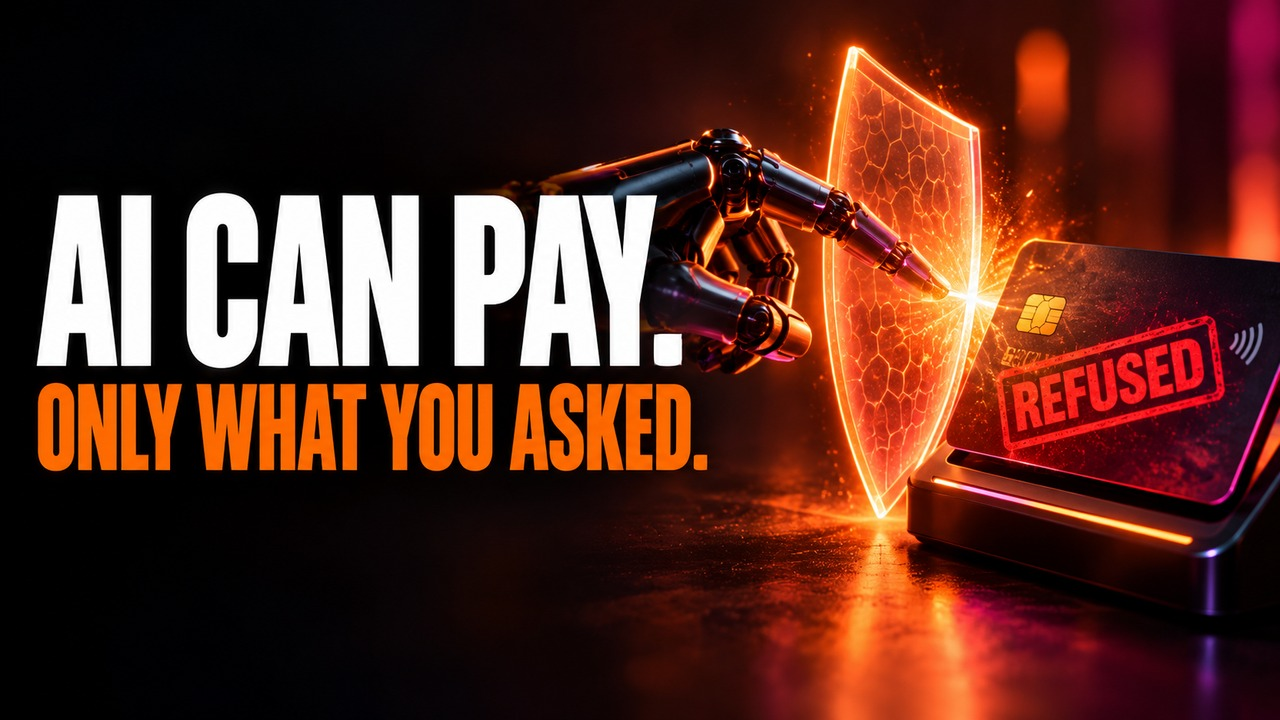
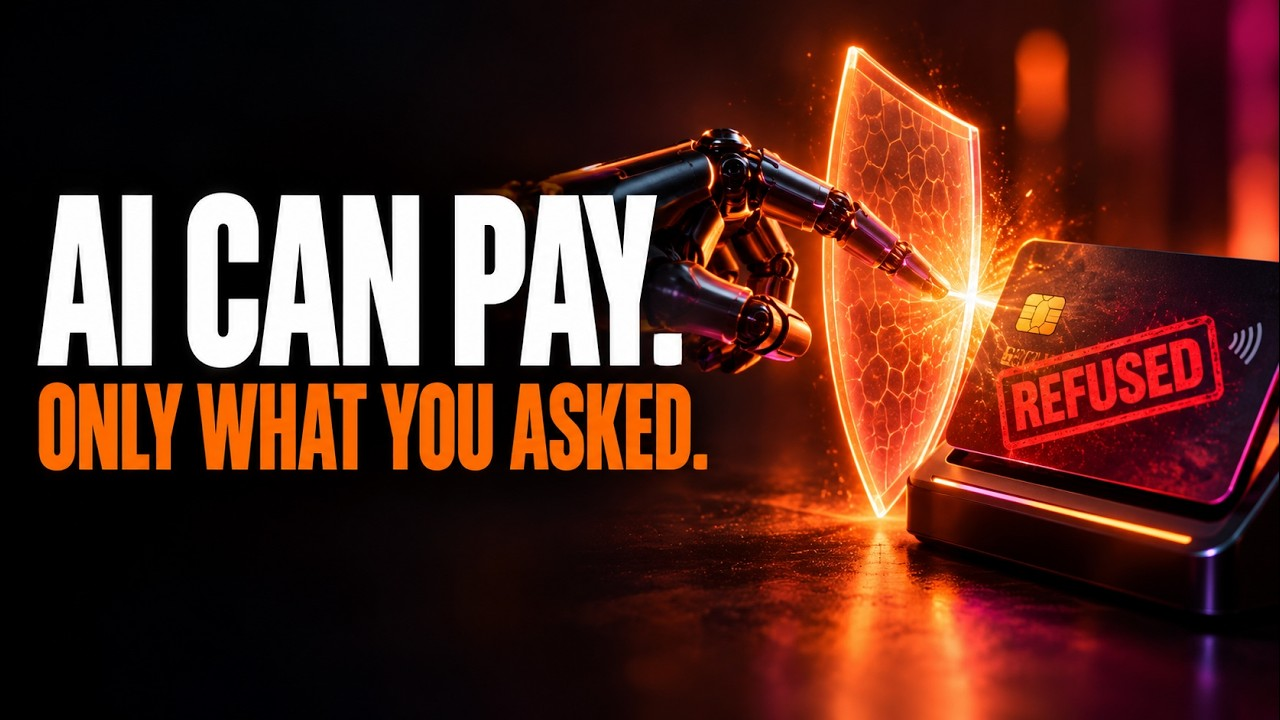
Demo video: the new cut (3:46) on the home page and in the README

diff --git a/frontend/src/pages/Home/components/DemoVideo.tsx b/frontend/src/pages/Home/components/DemoVideo.tsx
@@ -11,7 +11,7 @@ export default function DemoVideo() {
       <Card material="clear" tint="rgba(255, 135, 55, 0.10)" className="home-video">
         <div className="home-video-frame">
           <iframe
-            src="https://www.youtube.com/embed/oI3rZ2wh-NU"
+            src="https://www.youtube.com/embed/ZGURyNnQBCs"
             title={L('Moat demo video', 'فيديو عرض Moat')}
             loading="lazy"
             allow="accelerometer; autoplay; clipboard-write; encrypted-media; gyroscope; picture-in-picture; web-share"

diff --git a/README.md b/README.md
@@ -16,13 +16,13 @@ Every payment an agent tries to make is compared with what the user actually ask
 [![Security policy](https://img.shields.io/badge/security-policy-1f6feb)](https://github.com/nadji40/moat-gateway/security/policy)
 [![License](https://img.shields.io/badge/license-PolyForm%20Noncommercial%201.0.0-lightgrey)](LICENSE.md)
 
-[Watch the demo](https://youtu.be/oI3rZ2wh-NU) · [Try it](#try-it-in-two-minutes) · [The problem](#the-problem) · [Who has it](#who-has-this-problem) · [What Moat does](#what-moat-does) · [Numbers](#the-numbers) · [How it is built](#how-it-is-built) · [Run it locally](#run-it-locally) · [Team](#team) · [Security](#security)
+[Watch the demo](https://youtu.be/ZGURyNnQBCs) · [Try it](#try-it-in-two-minutes) · [The problem](#the-problem) · [Who has it](#who-has-this-problem) · [What Moat does](#what-moat-does) · [Numbers](#the-numbers) · [How it is built](#how-it-is-built) · [Run it locally](#run-it-locally) · [Team](#team) · [Security](#security)
 
 <br>
 
-<a href="https://youtu.be/oI3rZ2wh-NU" title="Watch the Moat demo on YouTube"><img src="docs/assets/demo-thumbnail.jpg" width="720" alt="Watch the Moat demo on YouTube (3:32)"></a>
+<a href="https://youtu.be/ZGURyNnQBCs" title="Watch the Moat demo on YouTube"><img src="docs/assets/demo-thumbnail.jpg" width="720" alt="Watch the Moat demo on YouTube (3:46)"></a>
 
-<sub>The demo, 3:32: setup, attacks refused in the Playground, a live MCP session, and the numbers.</sub>
+<sub>The demo, 3:46: setup, attacks refused in the Playground, free text and the assistant, a live MCP session, and the numbers.</sub>
 
 </div>
 
